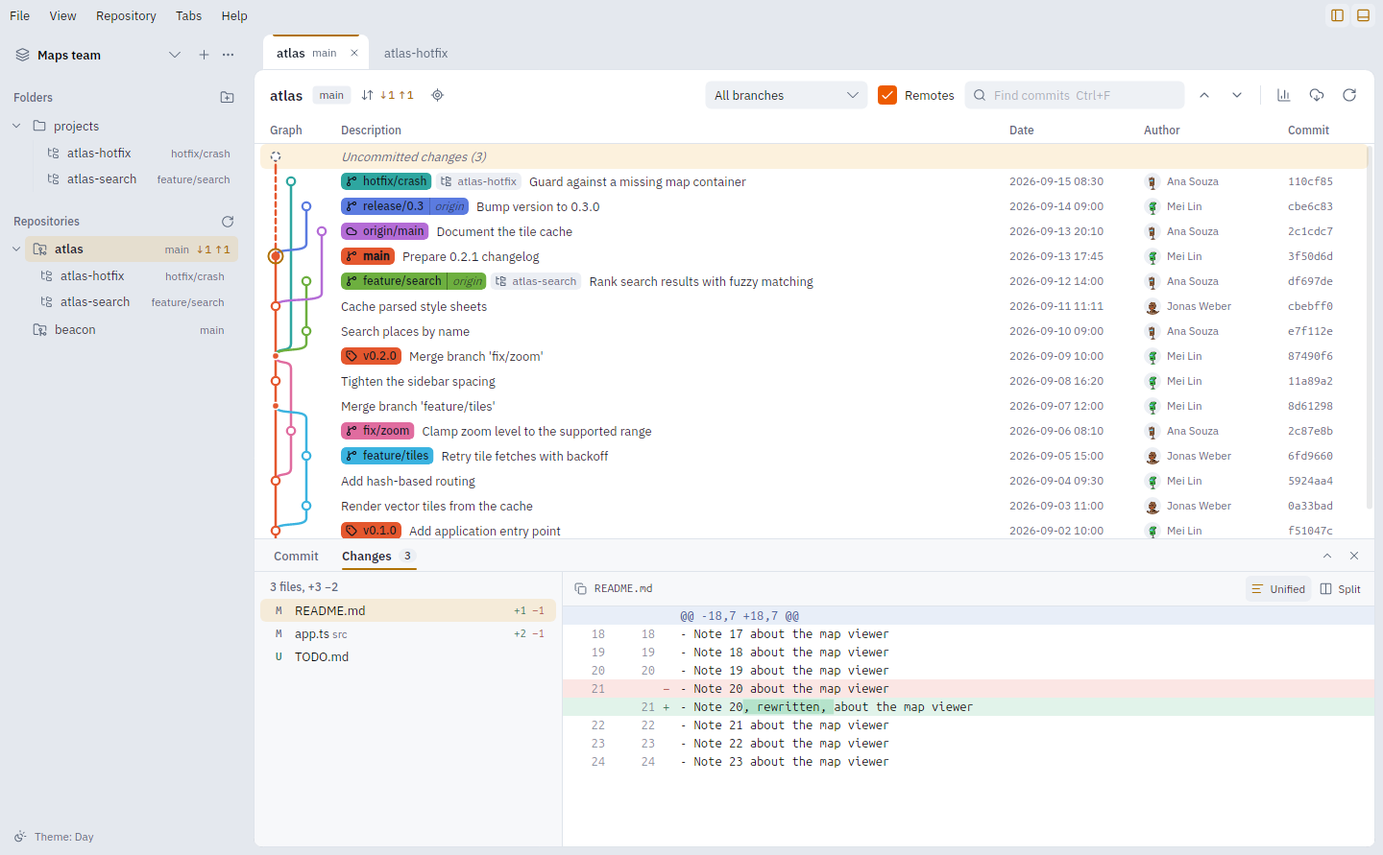
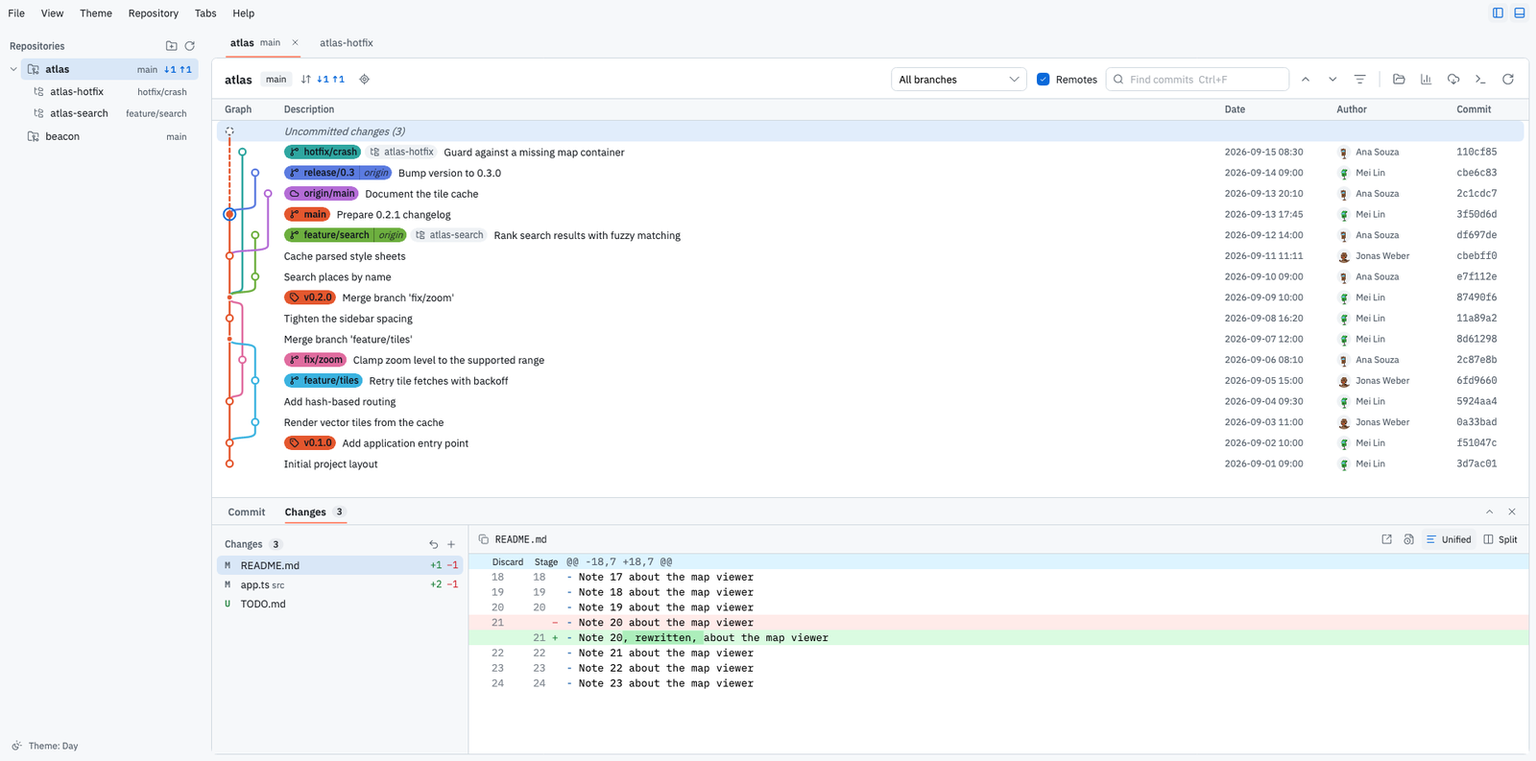
docs: simplify README, move details to docs/, and update screenshots

diff --git a/README.md b/README.md
@@ -1,111 +1,49 @@
 # Git Graph
 
-A desktop git history viewer built with Avalonia and modelled on the
-[Git Graph](https://github.com/mhutchie/vscode-git-graph) extension for VS Code.
+A desktop git history viewer built with Avalonia and modelled on the [Git Graph](https://github.com/mhutchie/vscode-git-graph) extension for VS Code.
 
-![The commit graph with branch and tag labels, the sidebar with workspaces, folders and worktrees, and a commit's details below](docs/screenshots/graph.png)
+![The commit graph with branch and tag labels, the repositories and worktrees sidebar, and commit details below](docs/screenshots/graph.png)
 
-- **Commit graph**: every branch, remote branch and tag on a colored lane, with uncommitted changes as a dashed row on top.
-- **History**: filter by branch, show or hide remotes, find commits by message, author, hash or branch name, and scroll down to load older commits. The filter button adds fields to show only commits by an author, from a recent period, touching a file or folder, or adding or removing some code (find which commit introduced or deleted a line, as `git log -S` does); the graph keeps its lines through a path filter. The find box takes the same filters as text, as in Sublime Merge: `author:ana path:src/ code:"var x" since:month tiles`, then Enter, fills in the fields and finds what is left.
-- **Diffs**: files changed by a commit, the working tree, or between any two commits (Ctrl+click the second one). Diffs are computed with [DiffPlex](https://github.com/mmanela/diffplex), with changed words highlighted inside modified lines. View them unified or side by side, or double-click a file (or right-click it) to compare the whole file in a full window, as in Meld or Beyond Compare: each side shows its file as it is, bands across the middle join each change to its counterpart, F7 / Shift+F7 move to the next or previous change, a map beside the scroll bar shows every change (click to go there), the caret's line shows above its counterpart at the bottom and, as GitLens does, ends with a faint note of who last changed it, when and in which commit, text selects across lines and copies, and unchanged stretches fold. Any diff line can be selected and copied. Code is coloured by language, as in VS Code. Under View, diffs can ignore whitespace and stop wrapping long lines (they then scroll sideways); the button above a diff opens the file in VS Code. A changed image shows its before and after side by side, with their sizes.
-- **Review comments**: comment on any line of a commit's diff, as on a GitHub pull request: hover a line in the details panel and click the comment button by its number, or right-click a line in the full diff window. Comments show under their lines (edit or delete your own), the full diff window marks their lines, and its Comments button lists the file's comments beside the code (click one to go there), and the commit list shows how many each commit has. They are kept in git notes (`refs/notes/gitgraph-comments`), so they travel with the repository: Fetch brings in everyone's, and Push, Publish and Sync push yours, merging comments made at the same time in different clones.
-- **Stage and commit**: select the uncommitted changes row to see them grouped as staged changes, changes and merge conflicts. Stage, unstage or discard a file from the buttons on its row (or all of a group from its heading; Ctrl+click and Shift+click select several, and the arrow keys, Space to stage or unstage and Delete to discard work from the keyboard), or a single change from the Stage, Unstage and Discard buttons on each hunk of its diff. To move only some lines of a change, as in Fork or `git add -p`, click their line numbers in the unified diff to pick them: the hunk's buttons then stage, unstage or discard just the picked lines. Write the message on the Commit tab and commit with the button or Ctrl+Enter; tick Amend last commit to replace the last commit (its message comes back to edit). With nothing staged, Commit offers to stage everything first.
-- **Stash**: stash the uncommitted changes (with or without untracked files) from their row's context menu or the Repository menu. Each stash shows in the graph above the commit it was made on, with a `stash@{n}` label; select it to see what it saved, untracked files included, and right-click it to apply, pop or drop it, or to create a branch from it. Repository → Pop latest stash brings back the newest one.
-- **File history and blame**: right-click a changed file (or a file in a folder tab), or use the clock button above a diff, to open the file's history: every commit that changed it, through renames, with that commit's diff. The Blame tab shows each line with the commit, author and date that last changed it; click a commit there to see it in the history.
-- **Branch and tag labels**: each ref is a label filled with its lane colour, with a branch, tag or cloud icon; a local branch and its remote copies on the same commit share one label (`main │ origin`), and the checked-out branch is bold. The target button next to the branch jumps to HEAD. Right-click a label to check out, merge, rename or delete a branch, set its upstream, delete a remote branch from its remote, or push a tag.
-- **Contributors**: the chart button shows who contributed to the current branch, like GitHub's Insights → Contributors: commits per week, then each person's commits, share, lines added and removed and weekly activity, over a chosen period and sorted by commits, additions or deletions (merge commits excluded, .mailmap respected).
-- **Graph actions**: right-click a commit or branch to merge it into the current branch, cherry-pick it, rebase the current branch onto it, revert it, or reset the current branch to it (soft, mixed or hard). Shift+click a second commit to select every commit in between: right-click one of them to cherry-pick them all onto the current branch (oldest first) or revert them all (newest first); merges are left to their own. Interactive rebase from here opens the commits after it in a list, as in Fork: pick, reword (edit the message in place), squash or fix up into the commit below, or drop each one, and drag them (or Alt+↑/↓) into a new order; uncommitted changes are stashed and brought back, and a branch with pushed commits is flagged as needing a force push. When a merge, cherry-pick, revert or rebase stops on conflicts, a bar above the graph offers to continue or abort it, and the conflicted files show under the uncommitted changes, where you can keep either side, open the file in VS Code, or stage it once resolved. Copy a commit's hash, or a changed file's path, from the context menus or the copy buttons.
-- **Commit messages**: the body renders as Markdown, and links open in the browser. Author avatars come from GitHub for GitHub noreply addresses and from Gravatar otherwise, cached for a week. People without a picture get a robot, or under View → Author avatars another generated picture: one of Gravatar's own (patterns, pixel characters, monsters, faces), a RoboHash set (monsters, robot heads, kittens, humans) or a DiceBear style; those two get a hash of the address, never the address. Identicons (like GitHub's default avatars) and initials are drawn in the app and send nothing. Avatar requests use the proxy from the environment, or GNOME's system proxy when the app is started from the desktop.
-- **Undo and reflog**: Repository → Undo last action takes back the last commit, amend, checkout, merge, rebase, pull or reset, after saying exactly what will happen: an undone commit's changes stay staged, and uncommitted changes are kept (git stops rather than overwrite them). Undo again to redo. Repository → Reflog lists every recent move of HEAD; right-click an entry to put a commit a reset or rebase left behind on a new branch, check it out or reset to it. Both can have shortcuts (File → Keyboard shortcuts).
-- **Fold staged changes into an earlier commit**: right-click a commit → Fold staged changes into this commit adds what is staged to it, as if it had been there all along (a fixup commit and an autosquash rebase, as lazygit's amend to commit); unstaged changes are kept, and it says which commits get new hashes and whether a force push will be needed.
-- **Highlight a branch**: right-click a branch or tag label → Highlight its commits fades every loaded commit that doesn't lead to it, like GitKraken's Solo, to follow one line through a busy graph; Esc or Clear stops it.
-- **Custom commands**: File → Custom commands adds your own shell commands to the right-click menus of commits, branches and files, and to the Repository menu, as in Fork. ${sha}, ${short}, ${subject}, ${branch}, ${file}, ${path} and ${repo} are filled in, quoted for the shell (and also set as GITGRAPH_SHA and so on); a command can ask before it runs, and what it prints is shown afterwards.
-- **Pull and push**: like VS Code's status bar, the toolbar and sidebar show commits to pull (↓) and push (↑) against each branch's upstream. Click it to sync (pull, then push) or to publish a branch that has no upstream; Pull and Push are also in the Repository menu, along with force push (with lease) and whether Pull merges, rebases or follows git config. Every repository in the open workspace is fetched quietly every 3 minutes (pick another interval or turn it off under View → Fetch automatically); new commits to pull show in a note and stay marked in the sidebar until you open the repository, and a repository whose fetch failed gets a warning icon with the reason in its tooltip.
-- **Keyboard shortcuts**: defaults follow VS Code where it has the same command (Ctrl+B sidebar, Ctrl+J panel, Ctrl+W close tab, Ctrl+PageDown/PageUp and Alt+1…9 for tabs, Ctrl+K chords). Menus and button tooltips show them; File → Keyboard shortcuts (Ctrl+K Ctrl+S) lists every command and lets you record, reset or remove shortcuts, warning about clashes.
-- **File states**: folder trees colour files and folders by their git state, as VS Code's explorer does: modified (M), added (A), untracked (U), renamed (R), conflicted (!), ignored dimmed, and a dot on folders with changes inside. Under Folders, linked worktrees are nested under the workspace folder that contains them (foldable, remembered). Right-click any repository or worktree under Repositories to browse its files or open it in VS Code, wherever it lives; the folder button in an open repository's toolbar browses its files too.
-- **Folders**: click a workspace folder in the sidebar to browse its files in a tab: a tree on the left, the selected file on the right (read-only in AvaloniaEdit, with VS Code's syntax highlighting and Ctrl+F search, or images). Right-click a folder, repository or worktree in the sidebar → Open files in new window (Browse files in new window for a repository) shows the same in a window of its own, beside the tabs. In a repository, the caret's line ends with a faint note of who last changed it, as in the full diff window. Folders that only contain one folder show as one row, like `src/main/java/com/example` (View → Compact folders, as in VS Code). Each folder remembers which subfolders were open, which file was selected and how wide its tree was dragged. Right-click a folder, in the sidebar or the tree, to open it in VS Code or copy its path.
-- **Worktrees**: each repository lists its linked worktrees in the sidebar. Add one from any commit or branch, open it in its own tab, or remove it. Commits checked out in another worktree are marked in the graph.
-- **Code navigation**: in a folder tab's viewer, F12 or Ctrl/Cmd+click goes to a definition (holding Ctrl/Cmd underlines the name under the pointer), Shift+F12 lists references, Ctrl+F12 lists implementations (subclasses, implementing types, `impl Trait for`, and an interface method's implementations), and Alt+Left / Alt+Right go back and forward; the right-click menu has the same. As in VS Code, Ctrl+P goes to a file by fuzzy name, Ctrl+T goes to a class, function or other definition anywhere in the folder by name (from the index), and Ctrl+Shift+F finds text in all its files (`git grep`, ignoring case unless the text has a capital); the search button above the tree has all three. They search the folder's own repository and every repository inside it, so a workspace folder of several repositories works too. A list of results previews the picked one beside it; Enter or a double-click goes there. The uses of the name at the caret are washed. C#, Go, Rust, Java, C, C++, Python, JavaScript, TypeScript and Zig are parsed with [tree-sitter](https://tree-sitter.github.io) inside the app (no language servers; `.h` headers count as C++), locals are resolved by scope, and everything else by name, so a list can include an unrelated symbol of the same name. Each repository's definitions are indexed in the background into a SQLite file under the app's local data folder; until that is done, lookups search with `git grep`. Files in other languages match whole words.
-- **Workspaces**: named sets of folders. The sidebar's Folders and Repositories sections fold away from their headings, as in VS Code, and stay as left per workspace. Repositories inside them, up to three levels deep, are found automatically. Each workspace keeps its own open tabs.
-- **Font size**: View → Font size makes all text larger or smaller, rows included (Ctrl+= and Ctrl+-, Ctrl+0 to reset, as VS Code's zoom), and is remembered.
-- **Layout**: as in VS Code, a menu bar (File, View, Repository) with sidebar (Ctrl+B) and commit details panel (Ctrl+J) toggles on its right; the panel can also be maximized over the graph. As in VS Code, a single click in the sidebar opens a preview tab (in italics) that the next one replaces; double-click it, or the tab, to keep it open.
+## Highlights
+
+- **Commit graph & history**: Colored branch/tag lanes, merged local/remote labels, branch highlighting, infinite scroll, and rich filtering (`author:`, `path:`, `code:`, `since:`, `git log -S`).
+- **Diffs & review comments**: Unified, side-by-side, and full-window diffs with word highlights, folded unchanged lines, image previews, file history/blame, and git-notes review comments (`refs/notes/gitgraph-comments`).
+- **Staging & git operations**: File, hunk, and line-level staging, commit/amend, stashes, cherry-pick, revert, merge, interactive rebase, fold staged changes, undo/reflog, and background auto-fetch.
+- **Repositories & worktrees**: Discover repositories from folders, manage linked worktrees, and track ahead/behind status from the sidebar.
+- **File browser & code navigation**: Read-only code viewer with git state colors, syntax highlighting, and in-app tree-sitter go-to-definition, references, implementations, and fuzzy/symbol/`git grep` search.
+- **Embedded terminal & customization**: Built-in shell per tab, VS Code-style keyboard shortcuts (`Ctrl+K Ctrl+S`), custom shell commands, and configurable avatars and themes.
+
+See the [full feature guide](docs/features.md) for details on every capability.
 
 ## Screenshots
 
-**Diffs, in the day theme.** The working tree's changes, unified, with changed words marked inside modified lines.
+**Diffs (Day theme).** Working tree changes in unified view with word-level highlights.
 
 ![Uncommitted changes in the day theme, with the file list and a unified diff](docs/screenshots/diff-light.png)
 
-**A file's diff in a full window.** Both files side by side, with each change joined across the middle and unchanged stretches folded away until opened.
+**Full diff window.** Side-by-side comparison with folded unchanged stretches and inline blame notes.
 
 ![A side-by-side diff with folded unchanged lines](docs/screenshots/full-diff.png)
 
-**Contributors.** Activity by day and week for the current branch, then each person's commits and lines changed.
+**Contributors.** Language breakdown, daily activity heatmap, weekly commits, and per-author stats.
 
 ![The contributors view with a daily heatmap, weekly bars and contributor cards](docs/screenshots/contributors.png)
 
-**Folders.** A workspace folder's files coloured by their git state, with the selected file highlighted in a read-only editor.
+**File browser.** Git state indicators alongside a read-only editor with syntax highlighting.
 
 ![A folder tab: a file tree with git states and a TypeScript file with syntax highlighting](docs/screenshots/folder.png)
 
-The screenshots come from the demo repositories: `make screenshots` renders them again.
+Screenshots are generated from the demo repositories via `make screenshots`.
 
-## Run
+## Quick Start
+
+Download a build for Linux, Windows, or macOS from [GitHub Releases](../../releases), or run from source (requires the .NET 10 SDK and `git` on `PATH`):
 
 ```sh
 dotnet run --project src/GitGraph.App
 ```
 
-Needs the .NET 10 SDK and `git` on `PATH`. State is saved to `~/.config/GitGraph/state.json`
-(`%APPDATA%\GitGraph\state.json` on Windows). Set `GITGRAPH_STATE` to use a different file, and `GITGRAPH_REDUCED_MOTION=1` to turn off animations. On Linux the app runs on X11 (XWayland on a Wayland desktop); `GITGRAPH_BACKEND=wayland` tries Avalonia's experimental native Wayland backend instead.
+## Documentation
 
-## Layout
-
-| Project | What it holds |
-| --- | --- |
-| `src/GitGraph.Core` | git CLI wrapper and output parsers, graph lane layout, unified diff parsing, workspace persistence and repository discovery |
-| `src/GitGraph.App` | Avalonia UI (MVVM with CommunityToolkit.Mvvm) |
-| `tests/GitGraph.Core.Tests` | unit tests, plus integration tests against throwaway repositories |
-
-```sh
-dotnet test
-```
-
-## Releases
-
-Every push runs CI (`.github/workflows/ci.yml`): formatting and analyzers (`dotnet format --verify-no-changes`, also `make lint`), a Release build and the tests.
-
-To release, tag a version and push the tag:
-
-```sh
-make tag VERSION=0.1.0      # lint and test, then create the annotated tag v0.1.0
-git push origin v0.1.0
-```
-
-The Release workflow (`.github/workflows/release.yml`) builds that version for each platform and publishes a GitHub release with notes generated from the commits. A version with a suffix, like `v0.2.0-beta.1`, becomes a pre-release.
-
-| Platform | Files |
-| --- | --- |
-| Linux x64 | `GitGraph-<version>-linux-x64.tar.gz`, `gitgraph_<version>_amd64.deb` |
-| Windows x64 | `GitGraph-<version>-win-x64.zip`, `GitGraph-<version>-win-x64-setup.exe` (Inno Setup; per-user or all users) |
-| macOS (Apple Silicon) | `GitGraph-<version>-osx-arm64.dmg` |
-
-The macOS app is only ad-hoc signed, not notarized, so the first launch needs right-click → Open. Help → About shows the version and the commit a build came from (local builds say `0.0.0-dev`), and its Check for updates button compares it with the latest release on GitHub. `make deb` builds the .deb locally.
-
-## Make targets
-
-`make` lists every target. The targets are defined in `mk/*.mk` and helper scripts live in `scripts/`.
-
-| Target | What it does |
-| --- | --- |
-| `make build` / `make test` / `make run` | Build, test or run (`CONFIG=Release` for a release build) |
-| `make publish` | Self-contained build for this machine in `artifacts/publish/<rid>` (`RID=linux-x64` and so on to pick another) |
-| `make install` | Install or update the app in `~/.local` (`PREFIX=...` to change): files in `opt/gitgraph`, a `gitgraph` command in `bin`, an app-menu entry and a desktop shortcut on Linux (`SHORTCUT=0` skips the shortcut) |
-| `make uninstall` | Remove what `make install` added |
-| `make demo-run` | Create demo repositories in `.demo/` and open the app on them |
-| `make snapshot SELECT=3 COMPARE=6` | Render the demo window to `.demo/snapshot.png` |
-| `make icons` | Re-render the PNG and ICO app icons from the drawing in `scripts/render_icon.py` (needs Pillow) |
-| `make screenshots` | Render the README screenshots from the demo repositories into `docs/screenshots` |
-| `make reindex` | Rebuild the generated indexes in `AGENTS.md` and `docs/` |
-
-Fonts: the interface uses the system sans GitHub uses (Segoe UI on Windows, Noto Sans on Linux), falling back to IBM Plex Sans. Code uses Ubuntu Sans Mono, Noto Sans CJK SC and DejaVu Sans Mono when installed (the same chain as the author's Ghostty terminal), falling back to IBM Plex Mono. Both Plex fonts are bundled under the SIL Open Font License (`src/GitGraph.App/Assets/Fonts/OFL.txt`). Icons are [Lucide](https://lucide.dev) (ISC license), through the Lucide.Avalonia package. Code navigation uses tree-sitter and its C#, Go, Rust, Java, C, C++, Python, JavaScript and TypeScript grammars (MIT), through the TreeSitter.DotNet package (MIT), plus [tree-sitter-zig](https://github.com/tree-sitter-grammars/tree-sitter-zig) (MIT, `native/tree-sitter-zig/LICENSE`), and SQLite (public domain) through Microsoft.Data.Sqlite (MIT). Zig syntax colours use the TextMate grammar from [vscode-zig](https://github.com/ziglang/vscode-zig) (MIT, `src/GitGraph.App/Syntaxes/zig.LICENSE.txt`).
+- [Feature Guide](docs/features.md) — detailed walkthrough of all features and shortcuts.
+- [Development & Releases](docs/development.md) — project layout, configuration, Make targets, CI/release workflow, and third-party licenses.

diff --git a/docs/features.md b/docs/features.md
@@ -1,0 +1,40 @@
+# Features
+
+Git Graph is a desktop git history viewer built with Avalonia and modelled on the [Git Graph](https://github.com/mhutchie/vscode-git-graph) extension for VS Code.
+
+## Commit Graph & History
+
+- **Commit graph**: Every branch, remote branch, and tag is drawn on a colored lane, with uncommitted changes shown as a dashed row at the top.
+- **History, filtering & search**: Filter by branch, show or hide remotes, find commits by message, author, hash, or branch name, and scroll down to load older commits. The filter button opens fields to show only commits by an author, from a recent period, touching a file or folder, or adding/removing code (`git log -S`); the graph keeps its lane lines through a path filter. The find box also accepts text filters (`author:ana path:src/ code:"var x" since:month tiles`, then Enter) to populate the fields and highlight matches.
+- **Branch & tag labels**: Each ref is rendered as a pill filled with its lane color and a branch, tag, or cloud icon. A local branch and its remote tracking copies on the same commit share one label (`main │ origin`), and the checked-out branch is bold. The target button next to the branch jumps to `HEAD`. Right-click a label to check out, merge, rename, or delete a branch, set its upstream, delete a remote branch from its remote, or push a tag.
+- **Highlight a branch**: Right-click a branch or tag label and choose **Highlight its commits** to fade every loaded commit that does not lead to it, making it easier to trace one line through a busy graph. Press `Esc` or choose **Clear** to stop.
+- **Contributors**: The chart button opens contributor insights for the current branch: daily activity heatmap, commits per week, and each contributor's commit count, share, lines added/removed, and weekly activity over a chosen period, sorted by commits, additions, or deletions (merge commits excluded, `.mailmap` respected).
+
+## Diffs, Review & File History
+
+- **Diffs & full diff window**: Inspect files changed by a commit, the working tree, or between any two commits (`Ctrl+click` the second commit). Diffs are computed with [DiffPlex](https://github.com/mmanela/diffplex) with word-level highlights inside modified lines, and support both unified and side-by-side views. Double-click a file (or right-click it) to compare the whole file in a full diff window: bands across the middle connect each change to its counterpart, `F7` / `Shift+F7` jump to the next or previous change, an overview map beside the scrollbar shows every change, the caret's line displays its counterpart at the bottom with an inline blame note (author, date, and commit), text selects across lines and copies, and unchanged stretches fold into GitHub-style expander rows. Syntax highlighting matches VS Code's themes. Under **View**, diffs can ignore whitespace and toggle line wrapping. A button above the diff opens the file in VS Code, and changed images show before/after previews side by side with dimensions.
+- **Review comments**: Comment on any line of a commit's diff: hover a line in the details panel and click the comment button next to its line number, or right-click a line in the full diff window. Comments appear inline under their lines (edit or delete your own), the full diff window marks commented lines and provides a **Comments** list beside the code, and the commit list shows comment counts. Comments are stored in git notes (`refs/notes/gitgraph-comments`), so **Fetch** brings in everyone's comments and **Push**, **Publish**, and **Sync** push yours, merging concurrent comments across clones.
+- **File history & blame**: Right-click a changed file (or a file in a folder tab), or click the clock button above a diff, to open the file's history across renames together with each commit's diff. The **Blame** tab shows the commit, author, and date that last changed each line; clicking a commit opens it in the history view.
+
+## Working Tree, Staging & Git Operations
+
+- **Stage & commit**: Select the uncommitted changes row to view changes grouped into staged changes, changes, and merge conflicts. Stage, unstage, or discard a file from its row buttons or group heading (`Ctrl+click` / `Shift+click` for multi-select, arrow keys, `Space` to stage/unstage, `Delete` to discard), or act on individual hunks via each hunk's **Stage**, **Unstage**, and **Discard** buttons. To stage, unstage, or discard specific lines within a hunk, click their line numbers in the unified diff before using the hunk buttons. Write the commit message on the **Commit** tab and commit with the button or `Ctrl+Enter`; check **Amend last commit** to replace the previous commit and reload its message. When nothing is staged, **Commit** offers to stage all changes first.
+- **Stash**: Stash uncommitted changes (with or without untracked files) from the uncommitted row's context menu or the **Repository** menu. Each stash appears in the graph above its base commit with a `stash@{n}` label; select it to inspect saved changes (including untracked files), or right-click it to apply, pop, drop, or create a branch from it. **Repository → Pop latest stash** restores the newest stash.
+- **Graph actions & interactive rebase**: Right-click a commit or branch to merge it into the current branch, cherry-pick it, rebase the current branch onto it, revert it, or reset the current branch to it (`soft`, `mixed`, or `hard`). `Shift+click` a second commit to select a range and cherry-pick (oldest first) or revert (newest first) all non-merge commits in between. **Interactive rebase from here** opens subsequent commits in a list where you can pick, reword, squash, fixup, or drop commits and drag (or `Alt+Up`/`Down`) to reorder them; uncommitted changes are stashed and restored automatically, and branches with pushed commits are flagged as needing a force push. When a merge, cherry-pick, revert, or rebase hits conflicts, a banner above the graph offers **Continue** and **Abort**, and conflicted files appear under uncommitted changes with options to keep either side, open in VS Code, or stage once resolved.
+- **Fold staged changes into an earlier commit**: Right-click a commit and choose **Fold staged changes into this commit** to fold what is currently staged into that commit (via a fixup commit and autosquash rebase) while keeping unstaged changes and showing which commits will receive new hashes or require a force push.
+- **Undo & reflog**: **Repository → Undo last action** reverts the last commit, amend, checkout, merge, rebase, pull, or reset after explaining the exact effect (undone commit changes remain staged, and uncommitted changes are preserved); running Undo again redoes it. **Repository → Reflog** lists recent `HEAD` movements so you can create a branch from, check out, or reset to commits left behind by a reset or rebase.
+- **Pull, push & auto-fetch**: The toolbar and sidebar show ahead/behind counts (`↓` / `↑`) against each branch's upstream. Click the indicator to **Sync** (pull then push) or **Publish** a branch without an upstream. **Repository** also provides **Pull**, **Push**, **Force push (with lease)**, and pull mode selection (merge, rebase, or git config). Repositories are fetched automatically in the background every 3 minutes (configurable or disabled under **View → Fetch automatically**); newly fetched commits show a notification and remain marked in the sidebar until opened, and fetch failures show a warning icon with the error in the tooltip.
+
+## Repositories, Files, Code Navigation & Terminal
+
+- **Repositories & worktrees**: The sidebar lists repositories discovered up to three levels deep from added folders, with **Add folder** and **Rescan** actions at the top and **Remove from list…** in each repository's context menu. Linked worktrees are listed under each repository; you can add a worktree from any commit or branch, open it in its own tab, or remove it, and commits checked out in another worktree are marked in the graph.
+- **File browser & git states**: Click the folder button in a repository's toolbar or right-click a repository/worktree in the sidebar to browse its files in a tab or in a separate window. File trees color files and folders by git state (`M`, `A`, `U`, `R`, `!`, dimmed ignored files, and change indicators on parent folders), support **View → Compact folders**, and remember expanded folders, selection, and tree width. Files open in a read-only AvaloniaEdit viewer with VS Code syntax highlighting, `Ctrl+F` search, image previews, and an inline blame note on the caret's line.
+- **Code navigation**: In a folder viewer, `F12` or `Ctrl+click` (`Cmd+click` on macOS) jumps to a definition, `Shift+F12` lists references, `Ctrl+F12` lists implementations, and `Alt+Left` / `Alt+Right` navigate history. `Ctrl+P` opens fuzzy file search, `Ctrl+T` searches symbols across the repository/folder index, and `Ctrl+Shift+F` runs `git grep` text search across all files (and nested repositories). C#, Go, Rust, Java, C, C++, Python, JavaScript, TypeScript, and Zig are parsed in-app with [tree-sitter](https://tree-sitter.github.io) and indexed into a local SQLite database in the background; other languages fall back to whole-word matching.
+- **Embedded terminal**: Each tab includes a toggleable shell panel so you can run git or project commands in the active repository or folder without leaving the app.
+
+## Customization & Layout
+
+- **Keyboard shortcuts**: Defaults mirror VS Code where applicable (`Ctrl+B` sidebar, `Ctrl+J` details panel, `Ctrl+W` close tab, `Ctrl+PageDown`/`PageUp` and `Alt+1…9` for tabs, `Ctrl+K` chords). Open **File → Keyboard shortcuts** (`Ctrl+K Ctrl+S`) to search, record, reset, or remove bindings with conflict warnings.
+- **Custom commands**: Configure shell commands under **File → Custom commands** to appear in commit, branch, file, and **Repository** menus. Placeholders `${sha}`, `${short}`, `${subject}`, `${branch}`, `${file}`, `${path}`, and `${repo}` are shell-quoted and also exported as `GITGRAPH_*` environment variables, with optional confirmation prompts and output dialogs.
+- **Commit messages & avatars**: Commit bodies render as Markdown with clickable links. Author avatars load from GitHub (for GitHub noreply addresses) or Gravatar and are cached for a week, with fallback options under **View → Author avatars** (Gravatar generated sets, RoboHash, DiceBear using hashed addresses, or locally drawn identicons/initials). Network requests respect environment proxies and GNOME desktop proxy settings.
+- **Layout & font size**: Toggle the sidebar (`Ctrl+B`), toggle or maximize the details panel (`Ctrl+J`), use preview tabs (single-click in the sidebar opens an italic preview tab; double-click keeps it open), and zoom all text and row heights with `Ctrl+=`, `Ctrl+-`, and `Ctrl+0` (**View → Font size**).

diff --git a/docs/development.md b/docs/development.md
@@ -1,0 +1,77 @@
+# Development & Releases
+
+## Running from Source
+
+```sh
+dotnet run --project src/GitGraph.App
+```
+
+Requires the **.NET 10 SDK** and `git` on `PATH`.
+
+### Configuration & Environment Variables
+
+- **State file**: Saved to `~/.config/GitGraph/state.json` (`%APPDATA%\GitGraph\state.json` on Windows).
+- **`GITGRAPH_STATE`**: Override the path to `state.json`.
+- **`GITGRAPH_REDUCED_MOTION=1`**: Disable UI animations.
+- **`GITGRAPH_BACKEND=wayland`**: On Linux, try Avalonia's experimental native Wayland backend instead of the default X11/XWayland backend.
+
+## Project Layout & Tests
+
+| Project | What it holds |
+| --- | --- |
+| `src/GitGraph.Core` | Git CLI wrapper and output parsers, graph lane layout, unified diff parsing, symbol indexing, and workspace persistence |
+| `src/GitGraph.App` | Avalonia desktop UI (MVVM with CommunityToolkit.Mvvm) |
+| `tests/GitGraph.Core.Tests` | Unit tests and integration tests against temporary git repositories |
+| `tests/GitGraph.App.Tests` | View model and headless UI/terminal integration tests |
+
+Run all tests:
+
+```sh
+dotnet test
+```
+
+## Make Targets
+
+Run `make` (or `make help`) to list all available targets. Target definitions live in `mk/*.mk` and helper scripts live in `scripts/`.
+
+| Target | What it does |
+| --- | --- |
+| `make build` / `make test` / `make run` | Build, test, or run (`CONFIG=Release` for a release build) |
+| `make lint` | Check formatting and analyzers (`dotnet format --verify-no-changes`) |
+| `make publish` | Self-contained build for this machine in `artifacts/publish/<rid>` (`RID=linux-x64` etc. to override) |
+| `make install` | Install or update the app in `~/.local` (`PREFIX=...` to change): files in `opt/gitgraph`, a `gitgraph` command in `bin`, and a desktop entry/shortcut on Linux (`SHORTCUT=0` skips the shortcut) |
+| `make uninstall` | Remove what `make install` added |
+| `make demo-run` | Create demo repositories in `.demo/` and open the app on them |
+| `make snapshot SELECT=3 COMPARE=6` | Render the demo window to `.demo/snapshot.png` |
+| `make icons` | Re-render the PNG and ICO app icons from `scripts/render_icon.py` (needs Pillow) |
+| `make screenshots` | Render the README screenshots from the demo repositories into `docs/screenshots` |
+| `make deb` | Build the `.deb` package locally |
+| `make tag VERSION=x.y.z` | Run lint and tests, then create annotated tag `vx.y.z` |
+| `make reindex` | Rebuild the generated indexes in `AGENTS.md` and `docs/` |
+
+## CI & Releases
+
+Every push runs CI (`.github/workflows/ci.yml`): formatting and analyzers (`dotnet format --verify-no-changes`, also `make lint`), a Release build, and the test suite.
+
+To create a release, tag a version and push the tag:
+
+```sh
+make tag VERSION=0.1.0      # lint and test, then create the annotated tag v0.1.0
+git push origin v0.1.0
+```
+
+The Release workflow (`.github/workflows/release.yml`) builds each platform artifact and publishes a GitHub release with notes generated from commits. Versions with a prerelease suffix (such as `v0.2.0-beta.1`) are published as pre-releases.
+
+| Platform | Files |
+| --- | --- |
+| Linux x64 | `GitGraph-<version>-linux-x64.tar.gz`, `gitgraph_<version>_amd64.deb` |
+| Windows x64 | `GitGraph-<version>-win-x64.zip`, `GitGraph-<version>-win-x64-setup.exe` (Inno Setup; per-user or all users) |
+| macOS (Apple Silicon) | `GitGraph-<version>-osx-arm64.dmg` |
+
+The macOS app is ad-hoc signed rather than notarized, so the first launch requires right-click → **Open**. **Help → About** shows the app version and source commit (local builds show `0.0.0-dev`), and **Check for updates** compares it against the latest GitHub release.
+
+## Third-Party Credits & Licenses
+
+- **Fonts**: The UI uses the system sans stack (Segoe UI on Windows, Noto Sans on Linux), falling back to IBM Plex Sans. Code uses Ubuntu Sans Mono, Noto Sans CJK SC, and DejaVu Sans Mono when installed, falling back to IBM Plex Mono. Both IBM Plex fonts are bundled under the SIL Open Font License (`src/GitGraph.App/Assets/Fonts/OFL.txt`).
+- **Icons**: [Lucide](https://lucide.dev) (ISC license) via `Lucide.Avalonia`.
+- **Code navigation & syntax**: [tree-sitter](https://tree-sitter.github.io) and its C#, Go, Rust, Java, C, C++, Python, JavaScript, and TypeScript grammars (MIT) via `TreeSitter.DotNet` (MIT); [tree-sitter-zig](https://github.com/tree-sitter-grammars/tree-sitter-zig) (MIT, `native/tree-sitter-zig/LICENSE`); SQLite (public domain) via `Microsoft.Data.Sqlite` (MIT); and the Zig TextMate grammar from [vscode-zig](https://github.com/ziglang/vscode-zig) (MIT, `src/GitGraph.App/Syntaxes/zig.LICENSE.txt`).
